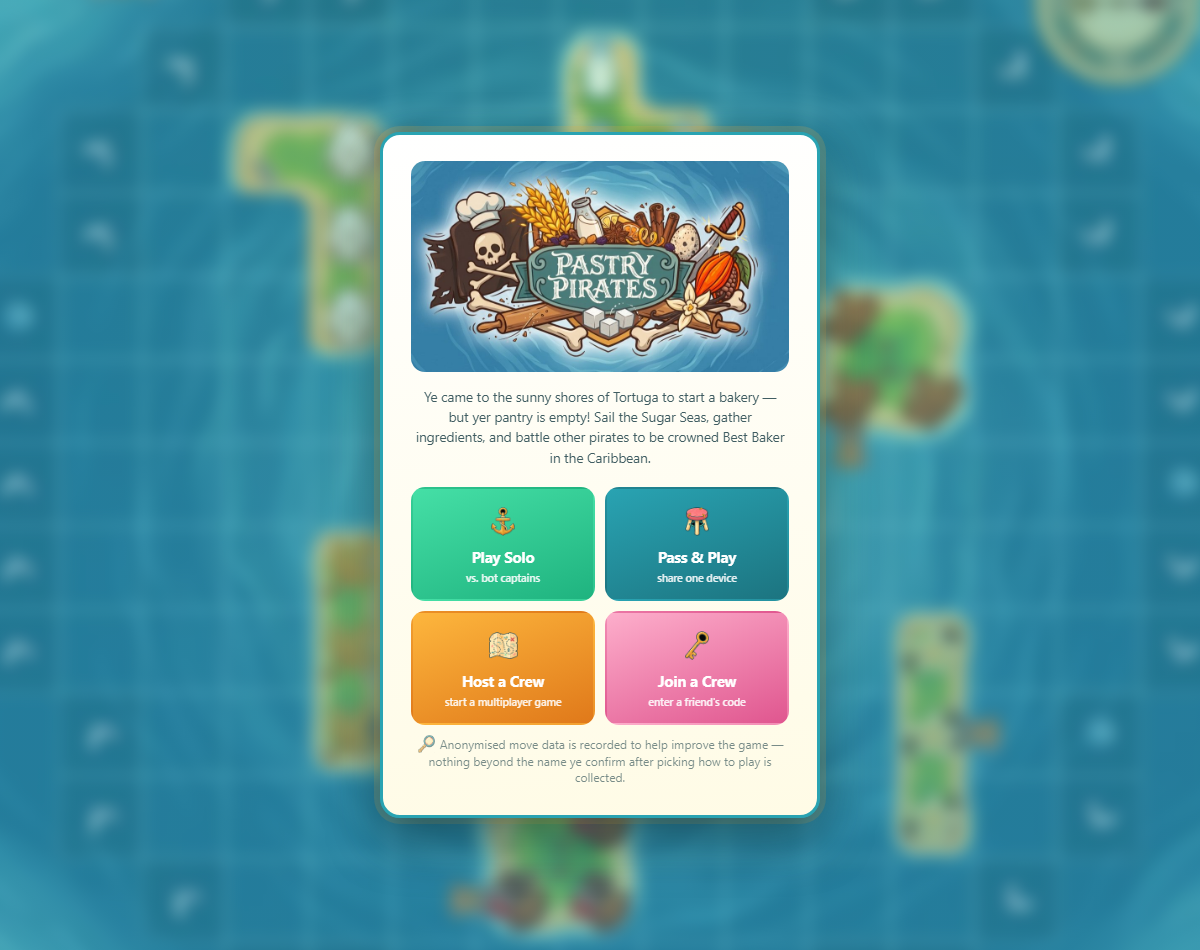
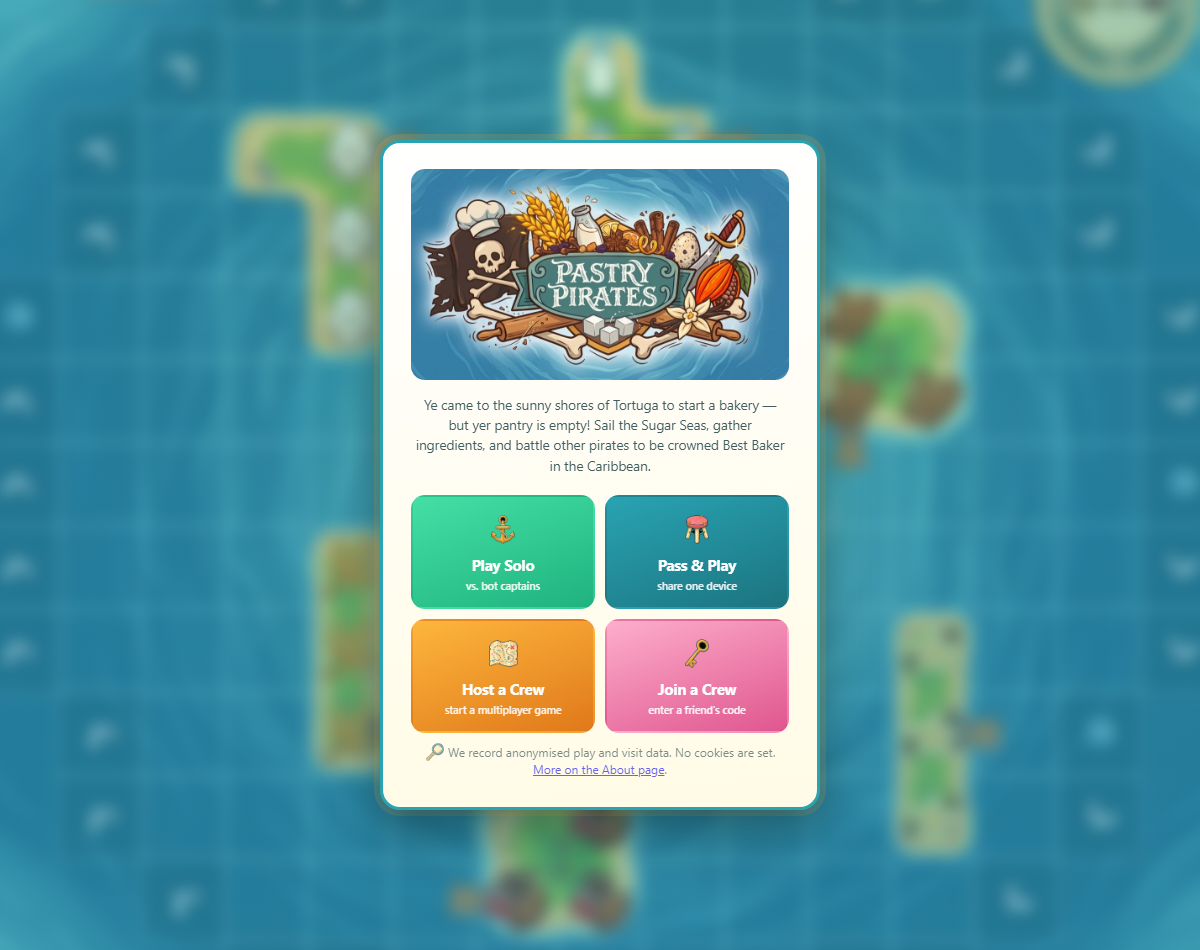
handoff at his stop, plus his front-card ruling -- and the Watch has been on Opus the whole time
HE STOPPED THIS SESSION FOR USAGE: "we're running out of usage. i need to stop your work, and start
you on a different model with smaller context. write a handoff file." Then, same breath: "we also
need to start having the Watch use a different model setting -- what is it currently using?"

⛔ THE ANSWER, MEASURED, AND IT IS THE WHOLE REASON HE IS OUT OF USAGE. bell.ps1:122 launches every
watch as `claude -p "<door prompt>"` plus an optional --add-dir and carries NO --model flag, so each
watch inherits the CLI default. That default lives in exactly one place: ~/.claude/settings.json
line 2, "model": "claude-opus-5". ANTHROPIC_MODEL is unset; neither repo settings file names a
model. So an unattended relay has been running the most expensive model every fifteen minutes,
around the clock, and NOBODY CHOSE IT -- it fell out of a launch line with no model flag, the same
accident shape as the --add-dir fence the Bell's own comments describe.

NOT FIXED HERE, DELIBERATELY, AND FOR TWO REASONS. Which model is a cost-against-quality call, which
is taste, and taste is never defaulted -- he has not picked one. And the naive repair is wrong: the
settings.json key is also what HIS OWN interactive sessions inherit, so editing it would quietly
downgrade him while he works. The Watch is what should be cheap, not Wyatt. The change is one line
in the Bell, and bell.ps1 -DryRun already prints the real argument list so a gate can read it.
[…]

Changed region(s): [[0.3083, 0.1221, 0.7092, 0.8853]]

diff --git a/about.html b/about.html
@@ -74,6 +74,10 @@
   .abtRules p { margin: 8px 0; }
 
   /* -------- rule rows: text left, game art right at a consistent half-width -------- */
+  /* The privacy card's list. Same measure and rhythm as .abtRules p, so the card reads as one
+     piece rather than a bolted-on notice — this is Wyatt speaking to a parent, not a legal box. */
+  .abtPrivacy { margin: 8px 0 12px; padding-left: 20px; }
+  .abtPrivacy li { margin: 8px 0; }
   .abtRuleRow { display: flex; align-items: flex-start; gap: 24px; margin: 12px 0 20px; }
   .abtRuleRow p { margin: 0; flex: 1 1 50%; min-width: 0; }
   /* DIRECT child only — the inline .narrIcon art lives inside the <p>, and an unscoped
@@ -224,6 +228,31 @@
       <li class="capFlaky">"YARRRRRGH I always be flippin' tails."<span>— Flaky Jack</span></li>
       <li class="capDough">"Have ye met me pet candycrab?"<span>— Dough Hook</span></li>
     </ul>
+  </div>
+
+  <!-- ⚑ HIS RULING, 2026-09-03, from the question UI: "Short line, and the detail on About." The
+       front card keeps one small true sentence and links here; the real explanation lives on this
+       page, "which is already in your own plain voice rather than pirate speak".
+       ⛔ SO THIS SECTION IS NOT IN PIRATE SPEAK, AND THAT IS THE RULE, NOT AN OVERSIGHT. About sits
+       OUTSIDE the game world — it is Wyatt speaking to a real person, and a parent reading about
+       what happens to their child's data is the last place for a costume. A retroactive audit once
+       "fixed" the credits into pirate voice and the shipped text had been right all along. -->
+  <div class="abtCard abtRules" id="privacy">
+    <h2>What we record</h2>
+    <p>Two things, and neither of them leaves a cookie on your device.</p>
+    <ul class="abtPrivacy">
+      <li><b>How the game is played.</b> Anonymised move data — what happened on the board — so I can
+        see where the game is confusing or unfair and fix it. Nothing beyond the name you type when
+        you pick how to play.</li>
+      <li><b>Basic visit numbers,</b> through Google Analytics: which page you landed on, where you
+        came from, and roughly where in the world you are. It is set up in what Google calls
+        cookieless mode, so <b>nothing is stored on your device and nobody is asked to consent to
+        anything</b> — which matters to me because children play this game. The trade is that I
+        cannot tell repeat visitors from new ones, and I am happy with that.</li>
+    </ul>
+    <p>There are no ads, no advertising trackers, and nothing is sold to anyone. If you would rather
+      not be counted at all, any browser's tracker blocking will stop it, and the game plays exactly
+      the same.</p>
   </div>
 
   <div class="abtCard">

diff --git a/index.html b/index.html
@@ -2764,7 +2764,7 @@
           <div class="ccIcon"><img src="assets/icons/key.png" alt=""></div><div class="ccTitle">Join a Crew</div><div class="ccSub">enter a friend's code</div>
         </button>
       </div>
-      <div class="muted" style="font-size:12px;margin-top:10px;margin-bottom:8px"><img class="narrIcon" src="assets/icons/magnifying-glass.png" alt=""> Anonymised move data is recorded to help improve the game — nothing beyond the name ye confirm after picking how to play is collected.</div>
+      <div class="muted" style="font-size:12px;margin-top:10px;margin-bottom:8px"><img class="narrIcon" src="assets/icons/magnifying-glass.png" alt=""> We record anonymised play and visit data. No cookies are set. <a href="about.html#privacy">More on the About page</a>.</div>
       <div id="fbnote" class="fbnote" style="display:none"><img class="narrIcon" src="assets/icons/gear.png" alt=""> Multiplayer needs a one-time Firebase setup — see <code>ONLINE_SETUP.md</code>. Solo play works right now!</div>
       <div id="busynote" class="fbnote" style="display:none"><img class="narrIcon" src="assets/icons/sailboat.png" alt=""> Lots of crews out sailing right now — multiplayer may be slow to sync. <b>Play Solo</b> works instantly and never waits on the crowd!</div>
     </div>

diff --git a/.planning/HANDOFF-2026-09-03-ADVISOR-USAGE-STOP.md b/.planning/HANDOFF-2026-09-03-ADVISOR-USAGE-STOP.md
@@ -1,0 +1,151 @@
+# HANDOFF — Advisor session stopped for usage, 2026-09-03
+
+**Written at Wyatt's instruction**, verbatim: *"we're running out of usage. i need to stop your work,
+and start you on a different model with smaller context. write a handoff file."* And in the same
+breath: *"we also need to start having the Watch use a different model setting -- what is it
+currently using?"*
+
+**Branch:** `claude/cloud-handoff-planning-a9ay1u` — in sync with origin (0 ahead, 0 behind at the
+time of writing). **Not `main`.** Nothing here has reached real players.
+
+---
+
+## ⛔ READ THIS FIRST: THE WATCH IS BURNING OPUS 5, AND NOBODY CHOSE THAT
+
+**Measured, not assumed.** `scripts/wyclau/bell.ps1:122` launches every watch as:
+
+```powershell
+Start-Process -FilePath "claude" -WorkingDirectory $Repo -ArgumentList (
+  @("-p", "`"$doorPrompt`"") + $kitArgs
+)
+```
+
+**There is no `--model` flag anywhere in it.** So each watch inherits the CLI default, and the
+default is set one place: `C:\Users\wyatt\.claude\settings.json`, line 2 —
+
+```json
+"model": "claude-opus-5",
+```
+
+`ANTHROPIC_MODEL` is unset; neither `.claude/settings.json` nor `.claude/settings.local.json` in the
+repo names a model. **So the answer to his question is: the Watch is running Opus 5, the most
+expensive model, unattended, every fifteen minutes, around the clock.** It fell out of a launch line
+that carries no model flag — the same shape of accident as the `--add-dir` fence the Bell's own
+comments describe. Nobody decided it.
+
+### The fix, and why it is one line and not the settings file
+
+**Do NOT change `~/.claude/settings.json`.** That key is also what Wyatt's own interactive sessions
+inherit — downgrading it would quietly downgrade him while he works. The Watch is what should be
+cheap, not him.
+
+Add `--model` to the Bell's argument list only:
+
+```powershell
+@("-p", "`"$doorPrompt`"", "--model", "claude-sonnet-5") + $kitArgs
+```
+
+**The model is HIS pick and it is not made yet** — it is a cost-versus-quality call, which is taste,
+and taste is never defaulted. My recommendation is **Sonnet 5**: a watch works one small item through
+a written loop with the Proof and a fresh-context CEO checking it afterwards, which is exactly the
+shape of work that does not need the expensive model. Ask him in the question UI, one question, and
+put his answer in `.claude/memory/DECISIONS.md` before editing the file.
+
+**When you make the edit, gate it.** `scripts/wyclau/bell.ps1` has a `-DryRun` path that prints the
+real argument list precisely so a check can read it (see its comment about paraphrases). A gate that
+asserts the launch line carries an explicit `--model` is worth having, because the whole fault here
+is a flag that was never there and nothing ever said so.
+
+---
+
+## WHAT IS UNCOMMITTED IN THE TREE RIGHT NOW
+
+**The tree is shared — at least one peer session is live in it.** Sort mine from theirs before you
+commit anything, and never `git add -A`.
+
+### Mine, finished, verified, and NOT yet committed
+
+His ruling on the front-card copy (question UI, 2026-09-03): **"Short line, and the detail on
+About."**
+
+| file | what |
+|---|---|
+| `index.html:2767` | front card now reads *"We record anonymised play and visit data. No cookies are set. [More on the About page]."* — replaces a sentence that said nothing beyond a name is collected, which stops being true the moment GA is on that page |
+| `about.html` | new `#privacy` card, **"What we record"**, before Credits. **In his own plain voice, NOT pirate speak** — About sits outside the game world (rule 12). There is a comment in the markup saying so, because a retroactive audit once "fixed" the credits into pirate voice when the shipped text was right |
+| `.claude/memory/DECISIONS.md` | the ruling, quoted, with the two options he declined |
+| `scripts/qa/_t206_analytics_shots.mjs` | extended to navigate to `about.html#privacy`, assert the anchor actually brings the card on screen, and photograph it |
+| `.planning/posed/t206-index.png`, `t206-about.png`, `t206-about-privacy.png` | rule 19 evidence, all three read pixel by pixel before I stopped |
+
+**Evidence, already gathered:** all three public pages drew; `src/analytics.js` was fetched on each;
+`installed=false`, `dataLayer=null`, zero googletagmanager scripts, `cookieChars=0`, no page errors —
+i.e. **analytics correctly does not fire off the live domain**, so a sea trial can never be counted
+as players. The `#privacy` card renders at 316px with both bullets. `npm test` was exit 0 before the
+peer's in-flight gate 131 landed in the tree.
+
+**A commit message for it was written and Wyatt interrupted before it ran.** Re-write it; do not
+hunt for the old one.
+
+### A peer's, in flight, DO NOT TOUCH
+
+`package.json` (gates 130 → 131), `scripts/qa/analytics_consent_check.mjs`,
+`scripts/qa/_t206_gate_redproof.mjs`, `.planning/SEA-TRIAL-2026-09-03T2031Z-Wy-Blade.md`,
+`.planning/posed/t076-*.png`, `.planning/posed/totop-phone-*.png`, and the `scratchpad/` and
+`scripts/qa/_t102_*` files. That peer is building the **red proof for gate 130** — the only thing in
+the suite that checks a gate can still fail. Leave it alone; commit your paths by name.
+
+---
+
+## WHAT IS OWED, IN PRIORITY ORDER
+
+1. **The Watch's model** — above. His pick, then one line, then a gate.
+2. **Commit the copy work** (paths listed above), then spawn a **fresh-context CEO on the copy item**
+   — rule 25, CEO after every item, and this item has not had one.
+3. **CEO 189's standing precondition, and it must not be dropped:** in its own words —
+   *"**Raising it was right, not blocking.** Nothing has shipped — production is analytics-free
+   tonight and staging can't fire. The copy is his. But it must stay a hard precondition on the merge
+   to `main`, not a task."* **So: analytics must not reach production until this copy ships with it.**
+   Once the copy is committed the precondition is satisfied, but the merge is still Wyatt's call.
+4. **CEO 189 finding 6, still open:** `analyticsShouldRun()` in `src/analytics.js:48` is a second
+   hostname policy sitting beside `devHost()` (`scripts/qa/dev_flag_gate_check.js:48-52`). Two things
+   kept in step by discipline — rule 23's exact shape. CEO called it "cheapest to fix now".
+5. **The FULL sea trial on the analytics change is OWED, not skipped.** `gear.mjs` returns FULL. A
+   trial was already at sea (8/10 legs) when the change landed, so a second would have fought it for
+   browsers and for the report file. It is recorded as a debt, not as done. **Do not let anyone write
+   "trial green" until one has actually sailed on this build.**
+6. **His three other rulings are unbuilt** — all harvested from the Glass 2026-09-03, all in
+   `DECISIONS.md`:
+   - **T-216, Best Baker tiebreak** — *"Change the game to match the page — record the day each
+     captain lights their ovens and rank on it."* **This is real game work and the only game-facing
+     one of the three.** It touches end-of-voyage ranking, so it is a FULL-gear change.
+   - **T-220, shallow trial** — *"Let a depth you chose come back green when its own checks pass."*
+   - **T-245** — every Chart row moveable as a *property*, not a snapshot.
+
+---
+
+## THINGS THAT WILL BITE YOU IF NOBODY SAYS THEM
+
+- **`git pull --rebase` fails on peers' unstaged files in this tree.** Use
+  `git -c rebase.autoStash=true pull --rebase`.
+- **`rules.html` is GENERATED** from `scripts/lib/rules_page.mjs` via `scripts/build_rules_page.mjs`.
+  Hand-edit it and a drift gate fails the build. Edit the generator, then regenerate.
+- **The CEO cadence hook can block a commit.** Its own message tells you to retry if the item is
+  genuinely mid-flight; that works.
+- **`pkill`/`pgrep` do not exist in Git Bash on this machine.** Rule 17's tidy-up is
+  `node scripts/qa/stray_probe_check.mjs`, which says what it actually saw instead of printing an
+  all-clear on a blind look. 183 abandoned Chrome processes holding 15 GB were found on this laptop
+  on 2026-09-02 by exactly that blindness.
+- **Staging is current:** `2026.09.03.4-staging@a72f2f12`, verified on the wire. Production has no
+  analytics on it at all.
+
+---
+
+## THE ONE THING TO CARRY OVER ABOVE ALL
+
+He is out of usage because an unattended relay has been running the most expensive model for days,
+and the reason is a missing flag that nothing ever reported. **That is this project's own recurring
+fault wearing new clothes** — an instrument, or in this case a launcher, silently doing something
+other than what everyone assumed, with no signal that it was. Fix the flag; then make something say
+so out loud if it ever goes missing again.
+
+**Written by the Advisor session, 2026-09-03. Nothing in this file is a prediction — every claim in
+it was read off the tree or a command's output at the time of writing.**

diff --git a/.planning/wyclau/INBOX.md b/.planning/wyclau/INBOX.md
@@ -2224,3 +2224,32 @@ status: OPEN — taken now, with the tag assignment.
 > we need to push all these changes to staging!!
 solution: none stated
 status: DONE 2026-09-03 — CEO 188, no game diff — no game code is right: his ask was a DEPLOY, not a change — staging now serves 2026.09.03.4-staging@401674f8, verified byte-for-byte across 566 files (0 DIFFERS) by a gate CEO 188 re-ran itself; the game code published is 09f8658c, another session's
+
+## INBOX-20260903T2340Z — ⚑ THE WATCH MUST NOT RUN ON OPUS; and stop this session for usage
+> "we're running out of usage. i need to stop your work, and start you on a different model with
+> smaller context. write a handoff file."
+> "we also need to start having the Watch use a different model setting -- what is it currently
+> using?"
+solution: none stated for WHICH model — that half is his and is unanswered.
+  ⛔ THE ANSWER TO HIS QUESTION, MEASURED: **Opus 5.** `scripts/wyclau/bell.ps1:122` launches every
+  watch as `claude -p "<door prompt>"` plus an optional `--add-dir`, and carries NO `--model` flag,
+  so each watch inherits the CLI default. That default is set in exactly one place —
+  `C:\Users\wyatt\.claude\settings.json` line 2, `"model": "claude-opus-5"`. `ANTHROPIC_MODEL` is
+  unset and neither repo settings file names a model. So an unattended relay has been running the
+  most expensive model every fifteen minutes, around the clock, and **nobody chose that** — it fell
+  out of a launch line that carries no model flag, exactly like the `--add-dir` fence the Bell's own
+  comments describe.
+  ⛔ DO NOT "FIX" IT IN `~/.claude/settings.json`. That key is also what HIS OWN interactive
+  sessions inherit; changing it would quietly downgrade him while he works. The Watch is what should
+  be cheap, not Wyatt. The change is one line in the Bell:
+  `@("-p", "`"$doorPrompt`"", "--model", "<his pick>") + $kitArgs`.
+  ASK HIM WHICH MODEL with the question UI before editing — cost against watch quality is taste, and
+  taste is never defaulted. Recommendation on the record: **Sonnet 5**, because a watch works ONE
+  small item through a written loop with a fresh-context CEO checking it afterwards, which is the
+  shape of work that does not need the expensive model.
+  THEN GATE IT. `bell.ps1 -DryRun` already prints the REAL argument list precisely so a check can
+  read it, so a gate asserting the launch line carries an explicit `--model` is cheap. The whole
+  fault here is a flag that was never there and nothing ever said so — this project's recurring
+  fault (a launcher silently doing something other than what everyone assumed) wearing new clothes.
+status: OPEN — the handoff is written (`.planning/HANDOFF-2026-09-03-ADVISOR-USAGE-STOP.md`) and
+  this session stopped as he asked. The model change itself is UNMADE, waiting on his pick.

diff --git a/.claude/memory/DECISIONS.md b/.claude/memory/DECISIONS.md
@@ -1,5 +1,21 @@
 # Wyatt's standing decisions
 
+
+## ⟨T-206⟩ The front card promises something Google Analytics makes untrue — how should it read? — 2026-09-03 (asked in the question UI, not on the Glass)
+
+Asked directly: his front card reads *"Anonymised move data is recorded to help improve the game — nothing beyond the name ye confirm after picking how to play is collected."* With GA on that page the last clause is no longer true, and children play this game. — **Wyatt ruled "Short line, and the detail on About"**, 2026-09-03.
+
+**What he chose, in the words on his card:** trim the front card to something small and true and put the full explanation on the About page, *"which is already in your own plain voice rather than pirate speak"*. Front card stays light; the detail is one tap away.
+
+**The alternatives he did not pick:**
+- Name it plainly on the front card, one extra clause of about twelve words (this was the recommendation)
+- Short line, and the detail on About  ← **his pick**
+- Leave the sentence alone — read it as being about GAME data, analytics as separate
+- Hold analytics off production entirely until the wording is settled
+
+**Consequence, so no session has to re-derive it:** the About copy is OUTSIDE the game world, so it is in his own first-person voice and NOT pirate speak (the standing voice-boundary rule). The front-card line stays inside the world and stays in pirate speak.
+
+<!-- harvest-id: RULING-20260903T2210Z-t206-footer-copy -->
 ## ⟨T-216⟩ Your rules page promises a tiebreak the game does not give, and which side should move is a design cal — 2026-09-03T21:30:35.726Z
 
 Asked on the Glass: *"⟨T-216⟩ Your rules page promises a tiebreak the game does not give, and which side should move is a design call, not a bug fix. When two captains bake on the same day, Best Baker goes to most crates, then most coin, then — the page says — whoever got home first. The first two are exactly right. The third is not: the game breaks that last tie by seat order, so of two captains tied on crates and coins, the one sitting in the earlier seat wins even if their rival reached Tortuga six days sooner. Measured, not read — I set up that exact pair and ran it twice, swapping who arrived first, and the early arriver won only when they also held the lower seat. Nothing in the game records when a captain got home, so the rule as written cannot be honoured without adding that. Small, and it only ever decides a dead-heat."* — **Wyatt ruled "Change the game to match the page — record the day each captain lights their ovens and rank on it; fairer, and it is the rule you clearly meant, but it touches the end-of-voyage ranking"**, 2026-09-03T21:30:35.726Z.
